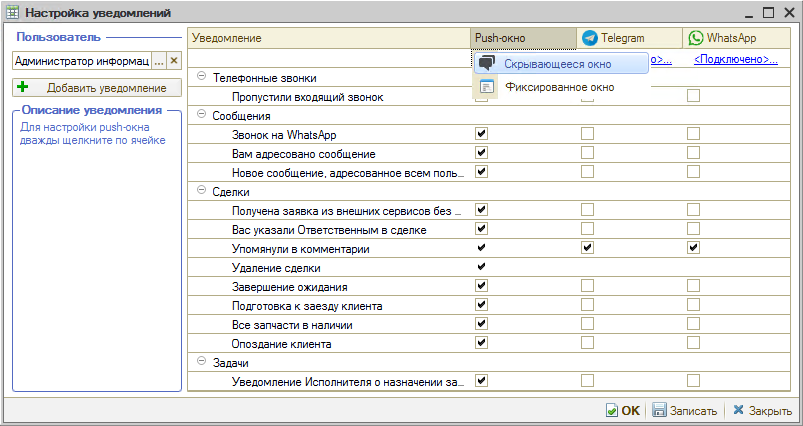
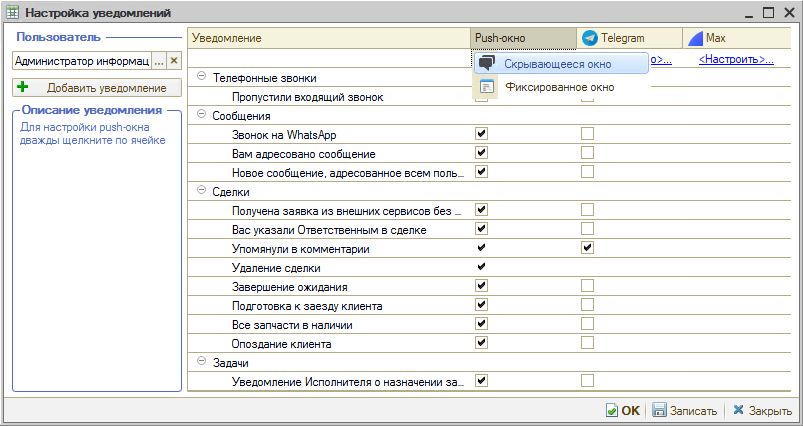
Урок «Как изменить всплывающее окно уведомлений» (Katya): на скрине 01 колонка WhatsApp заменена на Max (значок и ссылка «<Настроить>» со скрина Кати), в тексте Telegram и Max (Катя, 06.11.2026).

diff --git a/lessons/Урок 12. Уведомления/Как изменить всплывающее окно уведомлений/kak-izmenit-vsplyvayuschee-okno-uvedomleniy.md b/lessons/Урок 12. Уведомления/Как изменить всплывающее окно уведомлений/kak-izmenit-vsplyvayuschee-okno-uvedomleniy.md
@@ -6,7 +6,7 @@
 
 Для настройки параметров уведомлений нужно дважды кликнуть по ячейке с соответствующим видом оповещения: откроются настройки вида оповещения.
 
-Доступны 3 вида оповещения для настройки: push-окно, Telegram и WhatsApp. Для push-окна можно изменять вид отображения, для Telegram и WhatsApp доступен выбор чата, в который будет уходить уведомление.
+Доступны 3 вида оповещения для настройки: push-окно, Telegram и Max. Для push-окна можно изменять вид отображения, для Telegram и Max доступен выбор чата, в который будет уходить уведомление.
 
 ## Push-окно
 
